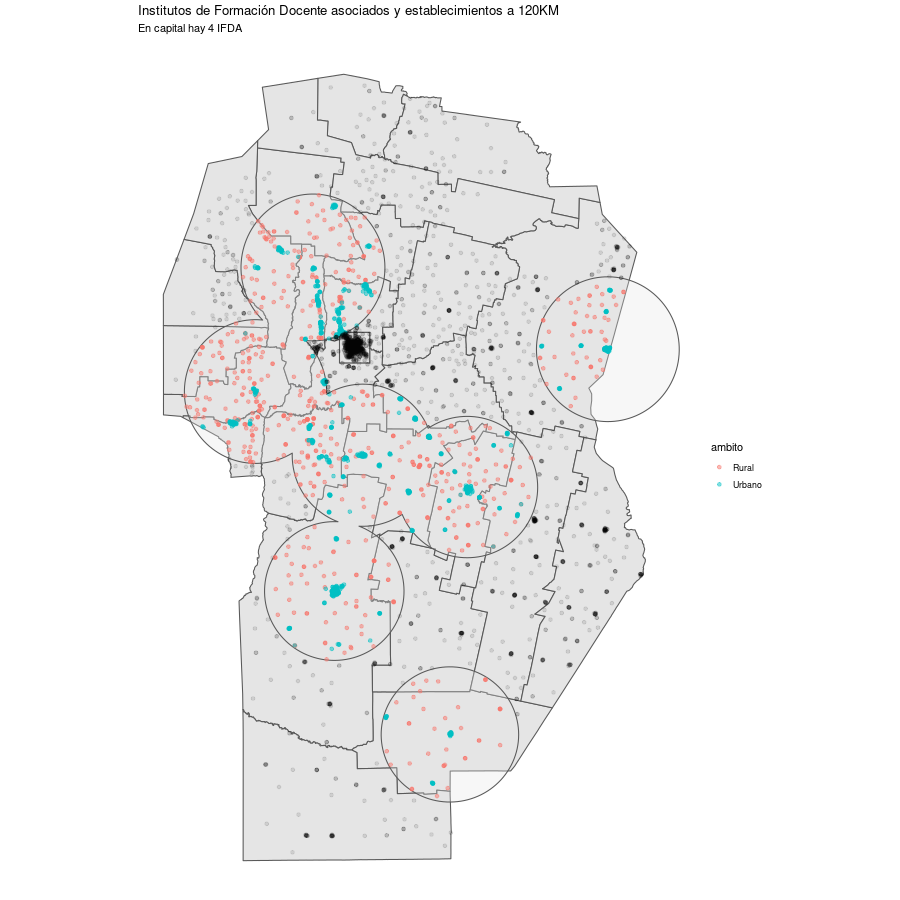
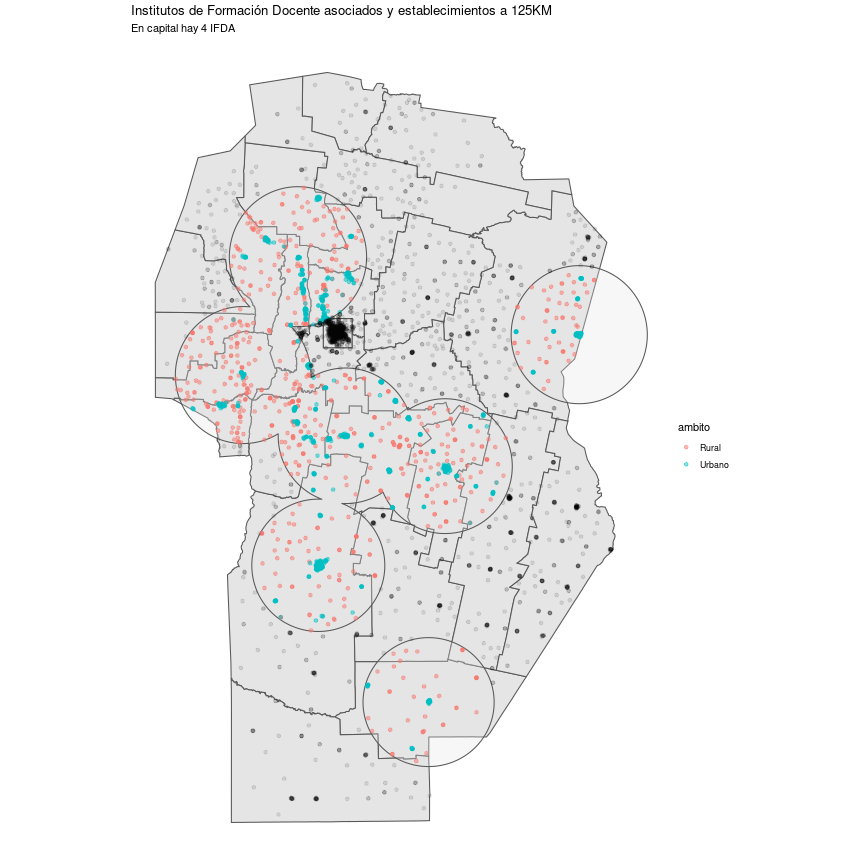
update

diff --git a/Proyecto.md b/Proyecto.md
@@ -2,10 +2,21 @@ Proyecto Geolocalización en R 2021
 ================
 Illak Zapata
 
+## Carga de librerias
+
 ``` r
 library(sf)
 library(tidyverse)
 ```
+
+## Carga de datos
+
+Se obtienen los datos mediante geoservicios de [Mapas
+Córdoba](https://www.mapascordoba.gob.ar/#/geoservicios). Vamos a
+trabajar con dos dataset geográficos:
+
+-   Departamentos de Córdoba
+-   Establecimientos educativos
 
 ``` r
 establecimientos_ed <- st_layers("WFS:https://idecor-ws.mapascordoba.gob.ar/geoserver/idecor/Establecimientos_educativos/wfs?getcapabilities")
@@ -54,6 +65,11 @@ establecimientos_filtrados <- st_filter(establecimientos, departamentos, .predic
   filter(oferta != "Común - Jardín de infantes")
 ```
 
+## Graficamos a modo de prueba
+
+Para probar los dataset realizamos la gráfica de los departamentos y
+establecimientos haciendo diferencia por modalidad y sector.
+
 ``` r
 ggplot() +
   geom_sf(data = departamentos) +
@@ -64,8 +80,16 @@ ggplot() +
 
 ![](Proyecto_files/figure-gfm/plot1-1.png)<!-- -->
 
+## Gráfica principal
+
+La idea es obtener una visualización que nos permita responder a la
+pregunta:
+
+¿Cuántos establecimientos educativos (rurales y urbanos) existen a 125KM
+de los Institutos de Formación Docente asociados?
+
 ``` r
-# Listado de IFDA
+# Listado de IFDA. Armamos un listado de forma manual de los IFDA que nos interesan.
 ifda_lista <- st_as_sf(data.frame(latitude = c(-30.8571764,-31.7275439,-32.174242,-32.397557,-31.4305685,-33.1268737,-34.1328932), 
                                   longitude = c(-64.5298422,-65.006453,-64.1156697,-63.2500767,-62.0835059,-64.3528865,-63.3937023),
                                   instituto = c("Instituto Superior Dr. Bernardo Houssay\n – Capilla del Monte.",
@@ -79,7 +103,7 @@ ifda_lista <- st_as_sf(data.frame(latitude = c(-30.8571764,-31.7275439,-32.17424
                        crs = 4326,
                        agr = "constant")
 
-# Pasamos a un CRS que mida en metros para el BUFFER
+# Pasamos a un CRS que mida en metros para luego poder usar la misma medida con st_buffer
 ifda_lista <- st_transform(ifda_lista, crs = 7801)
 # Calculamos circulos para cada IFDA con un radio de 120KM
 dat_circles <- st_buffer(ifda_lista, dist=125000)
@@ -124,7 +148,7 @@ ggplot() +
   geom_sf(data = diff2, alpha = .1) +
   theme_void() +
   labs(
-    title = "Institutos de Formación Docente asociados y establecimientos a 120KM",
+    title = "Institutos de Formación Docente asociados y establecimientos a 125KM",
     subtitle = "En capital hay 4 IFDA"
   ) +
   theme(
